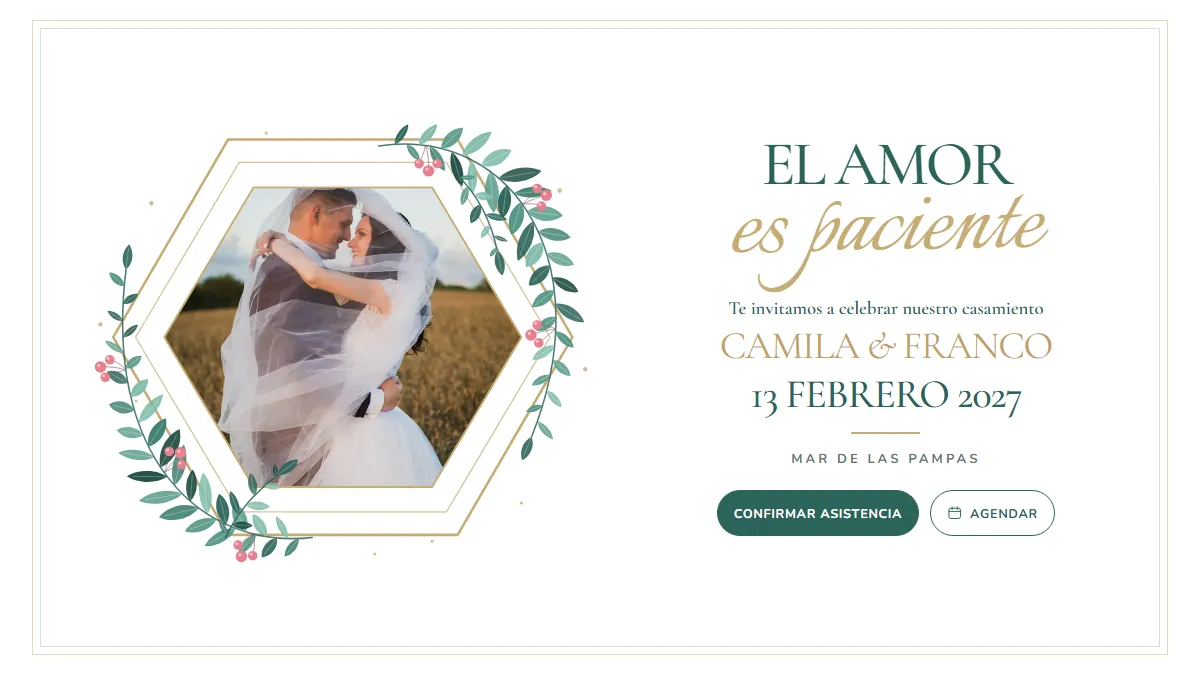
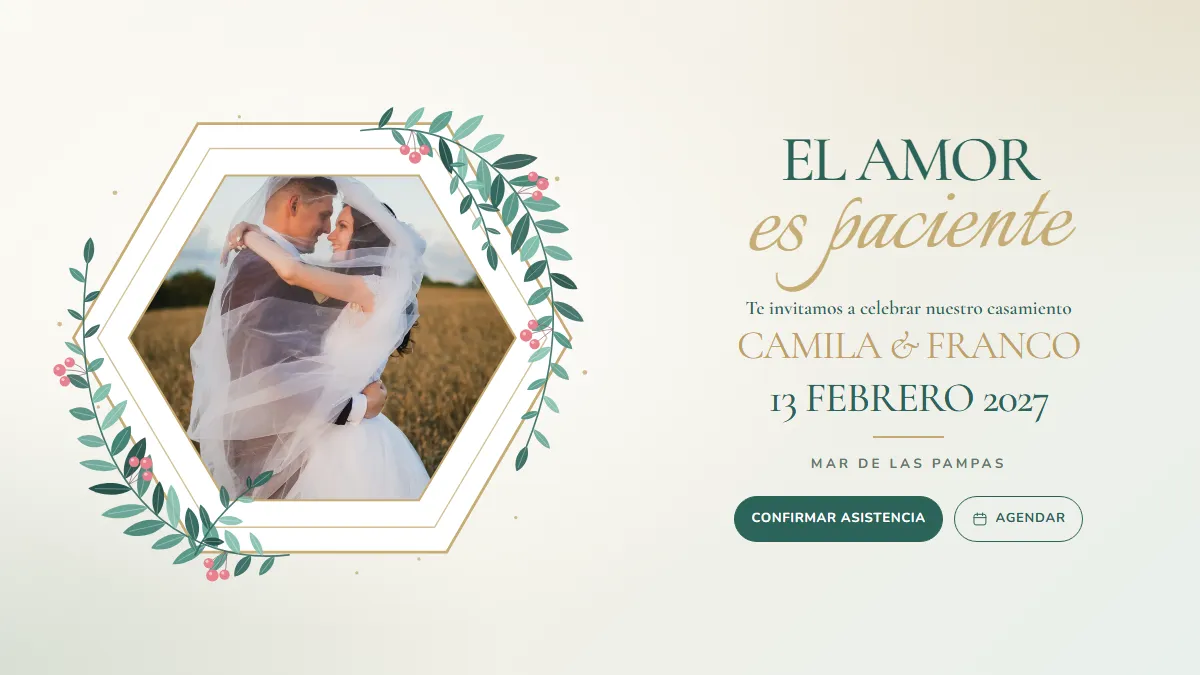
Bohemio: portada de la compu sin marco y con fondo en degradé
Pedido: sin el marco dorado. El fondo pasa a un degradé suave (blanco cálido detrás
del hexágono, dorado arriba a la derecha y salvia abajo a la izquierda) y el contenido
sigue en el contenedor centrado de 1360px. En el celular no cambia nada.

diff --git a/modelos/bohemio/estilo.css b/modelos/bohemio/estilo.css
@@ -267,13 +267,16 @@ section{position:relative;padding:72px 18px;max-width:1100px;margin:0 auto;text-
    medida, así los textos guardan exactamente las proporciones del celular, sólo que más grandes.
    Los anchos se atan al ALTO de la pantalla para que todo entre sin bajar en una notebook. */
 @media (min-width:1000px){
-  /* Como la versión a pantalla completa (fondo blanco, marco dorado doble de todo el alto),
-     pero dentro de un contenedor centrado de 1360px que no llega de lado a lado */
-  .portada{background:#fff;padding:20px 32px}
-  .lamina{container-type:normal;width:min(1360px,100%);min-height:calc(100vh - 40px);min-height:calc(100svh - 40px);display:grid;align-items:center;background:transparent;border:1px solid var(--ocre-claro);border-radius:0;box-shadow:none;padding:4vh 3.5vw}
-  .lamina::before{content:"";position:absolute;inset:7px;border:1px solid var(--linea);pointer-events:none}
+  /* Sin marco: fondo en degradé suave (blanco cálido al centro, dorado y salvia en los bordes)
+     y el contenido en un contenedor centrado de 1360px que no llega de lado a lado */
+  .portada{padding:4vh 32px;background:
+    radial-gradient(ellipse 60% 70% at 32% 45%,rgba(255,255,255,.95) 0%,rgba(255,255,255,0) 70%),
+    radial-gradient(ellipse 55% 60% at 100% 0%,rgba(198,172,117,.22) 0%,rgba(198,172,117,0) 70%),
+    radial-gradient(ellipse 60% 65% at 0% 100%,rgba(125,159,147,.24) 0%,rgba(125,159,147,0) 70%),
+    linear-gradient(135deg,#fbf9f3 0%,#f3f0e6 50%,#e9f0ec 100%)}
+  .lamina{container-type:normal;width:min(1360px,100%);background:transparent;border:0;border-radius:0;box-shadow:none;padding:0}
   .lamina-adentro{display:grid;grid-template-columns:minmax(0,1.12fr) minmax(0,1fr);align-items:center;gap:3vw;padding:0}
-  .hexagono{width:min(100%,82vh);justify-self:center}
-  .portada-textos{container-type:inline-size;width:min(100%,60vh,560px);justify-self:center}
+  .hexagono{width:min(100%,86vh);justify-self:center}
+  .portada-textos{container-type:inline-size;width:min(100%,62vh,560px);justify-self:center}
   .portada-textos .portada-intro{margin-top:5cqw}
 }
